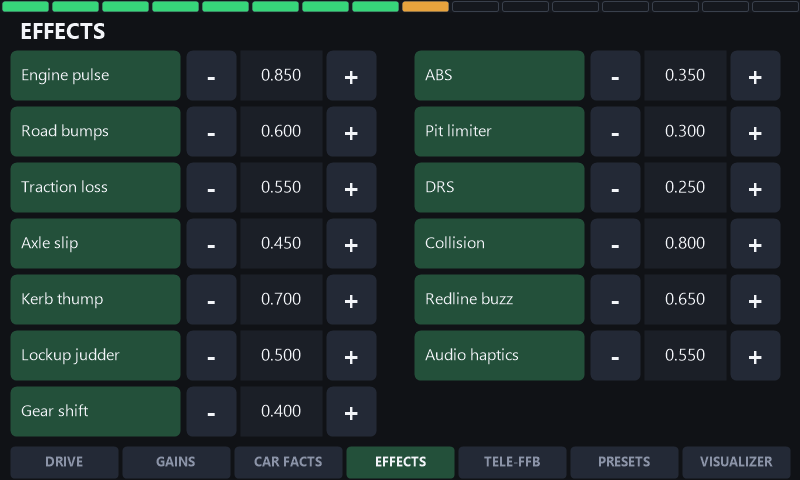
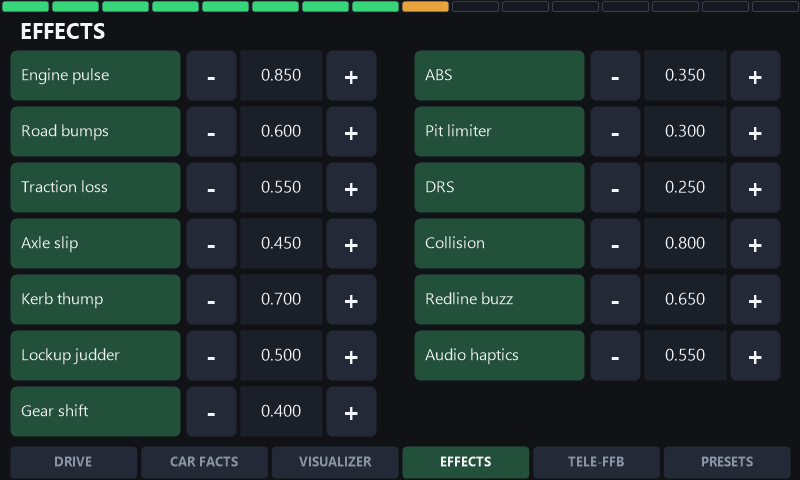
feat: ship the owner's dash layout as the factory default
Tab order becomes Drive, Gains, Car facts, Visualizer, Effects, Tele-FFB,
Presets, and Gains starts switched off: the Drive tab's own gains box
covers it, so the tab is a duplicate for most people and it is one
checkbox away in Settings. Drive boxes become car facts, tyre temps,
visualizer and g circle.

A factory-disabled set cannot live on the settings field, because a
non-empty collection default gets APPENDED to by the stored value
(project-settings-json-append-landmine). It resolves instead: an empty
DashTabOrder means the user has never opened the tab editor, so they get
the factory set; once they have, their disabled list is taken literally,
empty included. The editor reads the same resolver so it cannot disagree
with the dash it is editing.

The first edit of any kind now freezes the current layout before applying
the change. Without it, reordering tabs on a fresh install writes an
order, which flips the layout from factory to configured, which reads the
empty disabled list literally and silently switches Gains back on.

Default opening tab moves to Drive. It was 0, which is Gains, which now
ships off.

Previews follow: the tab bar is the real six-tab factory bar, the Drive
thumbnail shows the real factory boxes, and cover art is the Drive tab
rather than screen 00, which is the tab that ships switched off.

Changed region(s): [[0.0625, 0.9062, 0.9688, 1.0]]

diff --git a/src/TrueforceForAll.Plugin/TrueforcePlugin.DashRemote.cs b/src/TrueforceForAll.Plugin/TrueforcePlugin.DashRemote.cs
@@ -98,7 +98,16 @@ namespace TrueforceForAll.Plugin
         // install keeps its saved order and picks Drive up at the END, since
         // the sanitizer appends unknown-to-the-stored-list tabs rather than
         // reordering what the user chose.
-        private static readonly int[] DashTabFactoryOrder = { 6, 0, 1, 2, 5, 3, 4 };
+        private static readonly int[] DashTabFactoryOrder = { 6, 0, 1, 4, 2, 5, 3 };
+        // Tabs a fresh install starts with switched OFF. Gains is here
+        // because the Drive tab's own gains box covers it, so the tab is a
+        // duplicate for most people; it is one checkbox away in Settings.
+        // Applied ONLY when the user has never touched the tab editor (an
+        // empty DashTabOrder), so nobody's existing layout is rearranged by
+        // an update, and an empty disabled list still means "all on" for
+        // anyone who has configured tabs. It cannot be a default on the
+        // settings field itself: see project-settings-json-append-landmine.
+        private static readonly int[] DashTabFactoryDisabled = { 0 };
         private volatile int[] _dashTabSlots = new int[0];
 
         // ------------------------------------------------------------------
@@ -127,7 +136,7 @@ namespace TrueforceForAll.Plugin
         // bottom pair is what a phone sees when two-row layout is off, so the
         // two most useful boxes live there.
         private static readonly string[] DashDriveFactorySlots =
-            { "CarFacts", "LapTimes", "Scope", "TyreTemps" };
+            { "CarFacts", "TyreTemps", "Scope", "GCircle" };
         internal const int DashDriveSlotCount = 4;
         // Cached sanitized slots, refreshed alongside the tab slot map so the
         // property getters never re-walk settings per poll.
@@ -177,6 +186,19 @@ namespace TrueforceForAll.Plugin
             return order;
         }
 
+        /// <summary>Which tabs are switched off right now. A stored order is
+        /// the signal that the user has been through the tab editor, so from
+        /// then on their disabled list is taken literally, empty included.
+        /// Before that they are on factory settings and get the factory set.
+        /// Shared with the Settings editor so both agree on what is off.</summary>
+        internal List<int> DashEffectiveDisabledTabs()
+        {
+            var stored = Settings?.DashTabsDisabled;
+            if (stored != null && stored.Count > 0) return new List<int>(stored);
+            bool configured = Settings?.DashTabOrder != null && Settings.DashTabOrder.Count > 0;
+            return configured ? new List<int>() : new List<int>(DashTabFactoryDisabled);
+        }
+
         /// <summary>Rebuild the slot map from settings. Called at Init, by
         /// the Settings-tab editor after any layout change, and by the
         /// restore/import/account-switch paths that rewrite the layout; if
@@ -189,8 +211,8 @@ namespace TrueforceForAll.Plugin
             // import, account switch) picks both up.
             _dashDriveSlots = GetDashDriveSlots();
             var order = GetDashTabFullOrder();
-            var disabled = Settings?.DashTabsDisabled;
-            if (disabled != null && disabled.Count > 0)
+            var disabled = DashEffectiveDisabledTabs();
+            if (disabled.Count > 0)
                 order.RemoveAll(t => disabled.Contains(t));
             if (order.Count == 0) order.Add(0);   // hand-edited file disabled everything
             _dashTabSlots = order.ToArray();

diff --git a/src/TrueforceForAll.Plugin/SettingsControl.xaml.cs b/src/TrueforceForAll.Plugin/SettingsControl.xaml.cs
@@ -6465,7 +6465,10 @@ namespace TrueforceForAll.Plugin
             try
             {
                 var order = _plugin.GetDashTabFullOrder();
-                var disabled = new HashSet<int>(_plugin.Settings.DashTabsDisabled ?? new List<int>());
+                // Effective, not stored: on a fresh install the factory-off
+                // tabs must show unticked here or the editor disagrees with
+                // the dash it is editing.
+                var disabled = new HashSet<int>(_plugin.DashEffectiveDisabledTabs());
                 int enabledCount = 0;
                 int firstEnabled = 0;
                 bool anyEnabled = false;
@@ -6502,8 +6505,11 @@ namespace TrueforceForAll.Plugin
                 // click (the pressed control leaves the visual tree) and
                 // resets an open default-tab dropdown. Only a real layout
                 // or default change rebuilds.
+                // Sorted: a set's enumeration order is not part of its
+                // contract, and an unstable signature rebuilds on every tap.
+                var disabledSig = new List<int>(disabled); disabledSig.Sort();
                 string sig = string.Join(",", order) + "|"
-                    + string.Join(",", _plugin.Settings.DashTabsDisabled ?? new List<int>()) + "|"
+                    + string.Join(",", disabledSig) + "|"
                     + _plugin.Settings.DashDefaultTab;
                 if (sig == _remoteDashTabsSignature && RemoteDashTabsPanel.Children.Count > 0)
                     return;
@@ -6597,7 +6603,7 @@ namespace TrueforceForAll.Plugin
         private void RemoteDashTabToggle(int tab, bool on)
         {
             if (_suppressEvents || _plugin?.Settings == null) return;
-            var disabled = new List<int>(_plugin.Settings.DashTabsDisabled ?? new List<int>());
+            var disabled = _plugin.DashEffectiveDisabledTabs();
             if (on)
             {
                 disabled.RemoveAll(t => t == tab);
@@ -6623,6 +6629,18 @@ namespace TrueforceForAll.Plugin
         private void SaveRemoteDashTabLayout(List<int> order, List<int> disabled)
         {
             if (_plugin?.Settings == null) return;
+            // The first edit of any kind freezes what the user is currently
+            // looking at before applying their change. Without it, reordering
+            // tabs on a fresh install would write an order, which flips the
+            // layout from "factory" to "configured", which reads the empty
+            // disabled list literally and silently switches a factory-off tab
+            // back on. After this both lists are taken at face value.
+            if (order == null &&
+                (_plugin.Settings.DashTabOrder == null || _plugin.Settings.DashTabOrder.Count == 0))
+                order = _plugin.GetDashTabFullOrder();
+            if (disabled == null &&
+                (_plugin.Settings.DashTabsDisabled == null || _plugin.Settings.DashTabsDisabled.Count == 0))
+                disabled = _plugin.DashEffectiveDisabledTabs();
             if (order != null) _plugin.Settings.DashTabOrder = order;
             if (disabled != null) _plugin.Settings.DashTabsDisabled = disabled;
             try { _plugin.PersistSettings(); }

diff --git a/src/TrueforceForAll.Plugin/TrueforceSettings.cs b/src/TrueforceForAll.Plugin/TrueforceSettings.cs
@@ -414,11 +414,14 @@ namespace TrueforceForAll.Plugin
         // surviving restarts); with it off, DashDefaultTab is the fixed
         // opening tab. DashLastTab is bookkeeping, not a user choice: written
         // on every tab tap, read only when DashRememberLastTab is true.
-        // Indices match the dash tab bar: 0=Drive, 1=Car facts, 2=Effects,
-        // 3=Presets, 4=Visualizer (clamped at read for forward compat).
+        // These are SCREEN indices, not positions in the bar: 0=Gains,
+        // 1=Car facts, 2=Effects, 3=Presets, 4=Visualizer, 5=Tele-FFB,
+        // 6=Drive (clamped at read for forward compat). Both default to
+        // Drive, which leads the factory order and is the screen the dash
+        // exists for; 0 would open on Gains, which now ships switched off.
         public bool DashRememberLastTab { get; set; } = true;
-        public int  DashDefaultTab      { get; set; } = 0;
-        public int  DashLastTab         { get; set; } = 0;
+        public int  DashDefaultTab      { get; set; } = 6;
+        public int  DashLastTab         { get; set; } = 6;
 
         // TF4ALL Dash "Drive" screen: what each of the four corner boxes shows,
         // in slot order (top-left, top-right, bottom-left, bottom-right), plus
